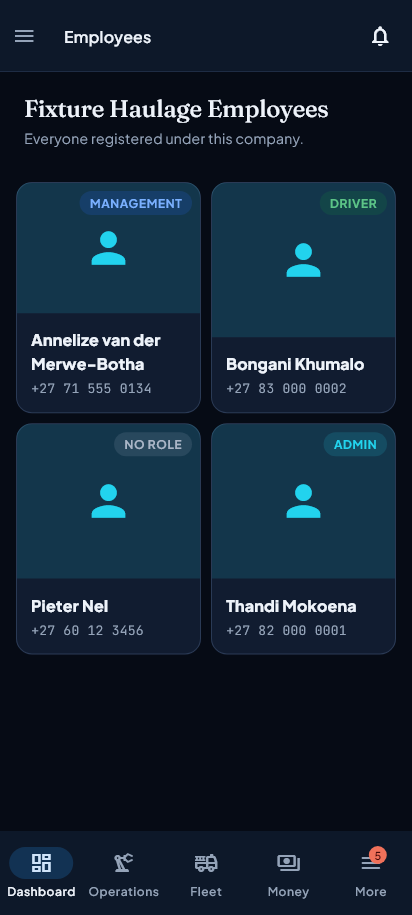
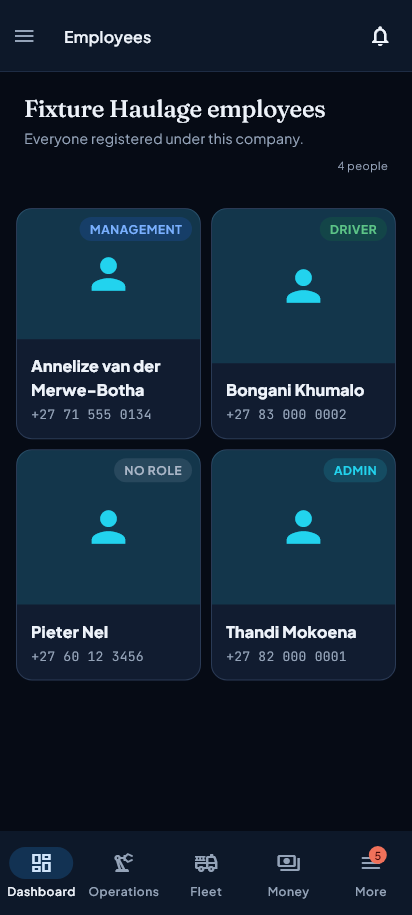
fix(employees): the employee grid's head is sentence case and counts the people on it
Reviewer finding #40, verified in the render. The title was
`'$companyName Employees'` — the shipping app's `AppBar` title carried across
into an `MlPageHeader` unchanged — so `screen-employee-grid-desktop-dark`
read "Fixture Haulage Employees" while the register next door reads "Employee
register" and the screen one route over reads "Company employees". The company
is a proper noun; "employees" is not.

It also carried no meta line, which `docs/design-reference.md` §5.4 asks of
every header, and which the sibling "Company employees" head does carry. The
roster was already being fetched — `getByCompanyId` selects a company's WHOLE
roster whatever page is asked for, and caches it — so `employeesByCompanyProvider`,
declared in this file since it was written and read by nothing, now feeds the
count at no extra round trip. It reads `4 people` beside the title on the
desktop and under the description on a phone, which is exactly where the
sibling screen puts `3 users`; both looked at.

`maybeWhen(orElse: () => null)`, so an unresolved roster shows NO meta rather
than "0 people" — §5.7 is that an empty state must say it is empty, and a
roster that has not arrived is not empty, it is unread.

This count is only honest because of `bf40afc`: before it the repository
cached the twenty-row PAGE under the company's key, so this line would have
told a two-hundred-person company it had twenty.

Pinned by `test/features/employee/employee_grid_head_test.dart`. Three
[…]

Changed region(s): [[0.0291, 0.1836, 0.9612, 0.5202], [0.0291, 0.5202, 0.9612, 0.765], [0.4951, 0.0918, 0.7864, 0.153]]

diff --git a/test/features/employee/employee_grid_head_test.dart b/test/features/employee/employee_grid_head_test.dart
@@ -1,0 +1,120 @@
+// The employee grid's page head, in the product's own vocabulary.
+//
+// Phase 3 mine-portal pass, 2026-08-23 (reviewer finding #40). The title was
+// `'$companyName Employees'` — the shipping app's `AppBar` title carried
+// across into an `MlPageHeader` unchanged — so it read "Fixture Haulage
+// Employees" while every other header in the product is sentence case, the
+// register next door reads "Employee register" and the screen one route over
+// reads "Company employees".
+//
+// And it carried NO meta line, which `docs/design-reference.md` §5.4 asks of
+// every header. The roster was already being fetched — `getByCompanyId`
+// selects a company's whole roster whatever page is asked for — so the count
+// costs nothing but was simply never shown.
+//
+// The count is only honest because of the commit before this one: the
+// repository used to cache the twenty-row PAGE under the company's key, so a
+// header counting that roster would have said "20 people" about a company of
+// two hundred. See `employee_roster_paging_test.dart`.
+
+import 'package:flutter/material.dart';
+import 'package:flutter_riverpod/flutter_riverpod.dart';
+import 'package:flutter_test/flutter_test.dart';
+import 'package:shared_preferences/shared_preferences.dart';
+import 'package:supabase_flutter/supabase_flutter.dart';
+
+import 'package:flutter_application_1/core/mcp/models/employee_model.dart';
+import 'package:flutter_application_1/core/mcp/repository_providers.dart';
+import 'package:flutter_application_1/core/theme/app_theme.dart';
+import 'package:flutter_application_1/features/employee/screens/employee_grid_screen.dart';
+
+import '../../fixtures/portal_tail_fixtures.dart';
+import '../../test_helpers/real_fonts.dart';
+import '../../test_helpers/frozen_clock.dart';
+
+void main() {
+  setUpAll(() async {
+    freezeCaptureClock();
+    await loadRealFonts();
+    SharedPreferences.setMockInitialValues({});
+    await Supabase.initialize(
+      url: 'http://localhost:54321',
+      anonKey: 'employee-grid-head-test',
+    );
+  });
+
+  Future<void> pump(WidgetTester tester, List<EmployeeMCP> roster) async {
+    tester.view.physicalSize = const Size(1600, 1200);
+    tester.view.devicePixelRatio = 1.0;
+    addTearDown(tester.view.reset);
+    await tester.pumpWidget(
+      ProviderScope(
+        overrides: [
+          employeeRepositoryProvider.overrideWithValue(
+            FixtureEmployeeRepository(roster),
+          ),
+        ],
+        child: MaterialApp(
+          theme: AppTheme.darkTheme,
+          home: const Scaffold(
+            body: EmployeeGridScreen(
+              companyId: 'co-transporter',
+              companyName: 'Fixture Haulage',
+            ),
+          ),
+        ),
+      ),
+    );
+    await tester.pump();
+    await tester.pump(const Duration(milliseconds: 600));
+  }
+
+  testWidgets('the title is sentence case, not the AppBar title', (
+    tester,
+  ) async {
+    await pump(tester, kCompanyRoster);
+
+    expect(find.text('Fixture Haulage employees'), findsOneWidget);
+    expect(
+      find.text('Fixture Haulage Employees'),
+      findsNothing,
+      reason:
+          'the company is a proper noun; "employees" is not. Every other '
+          'header in the product is sentence case',
+    );
+  });
+
+  testWidgets('the head counts the people it draws', (tester) async {
+    await pump(tester, kCompanyRoster);
+
+    final drawn = kCompanyRoster
+        .where((e) => e.companyId == null || e.companyId == 'co-transporter')
+        .length;
+    expect(
+      drawn,
+      greaterThan(1),
+      reason: 'a one-person fixture cannot tell a count from a singular',
+    );
+    expect(
+      find.text('$drawn people'),
+      findsOneWidget,
+      reason:
+          '§5.4 — every header carries a meta line, and it counts the thing '
+          'the page actually shows',
+    );
+  });
+
+  testWidgets('one person is "1 person", not "1 people"', (tester) async {
+    await pump(tester, [kCompanyRoster.first]);
+    expect(find.text('1 person'), findsOneWidget);
+    expect(find.text('1 people'), findsNothing);
+  });
+
+  // The GREEN case: the description is the screen's own sentence and this pass
+  // did not touch it. If a later edit rewrites the header wholesale, this says
+  // so rather than letting the sentence quietly disappear.
+  testWidgets('the description still says who is on the page', (tester) async {
+    await pump(tester, kCompanyRoster);
+    expect(find.text('Everyone registered under this company.'), findsOneWidget);
+  });
+}

diff --git a/lib/features/employee/screens/employee_grid_screen.dart b/lib/features/employee/screens/employee_grid_screen.dart
@@ -9,7 +9,13 @@ import 'package:flutter_application_1/features/auth/models/user_type.dart';
 import 'package:flutter_application_1/core/design/components/ml_components.dart';
 import 'package:cached_network_image/cached_network_image.dart';
 
-/// Provider for the list of employees by company ID
+/// Every person on a company's roster — the whole list, not a page of it.
+///
+/// Declared here since the screen was written and read by nothing until
+/// 2026-08-23, when the page header gained the meta line §5.4 asks every
+/// header for. It costs no extra round trip: `getByCompanyId` selects the
+/// company's whole roster whatever page is asked for, and caches it, so
+/// the grid's own first page has already paid for this.
 final employeesByCompanyProvider =
     FutureProvider.family<List<EmployeeMCP>, String>((ref, companyId) async {
       final repository = ref.watch(employeeRepositoryProvider);
@@ -29,6 +35,12 @@ class EmployeeGridScreen extends ConsumerWidget {
 
   @override
   Widget build(BuildContext context, WidgetRef ref) {
+    // The roster behind the meta line. `null` until it resolves — a header
+    // with no meta yet is right; a header reading "0 people" for a frame is
+    // not (§5.7: an empty state must SAY it is empty, and this one is not
+    // empty, it is unread).
+    final roster = ref.watch(employeesByCompanyProvider(companyId));
+
     // NO `Scaffold(appBar:)` — `/employees/:companyId` is a leaf of the portal
     // `ShellRoute`, whose top bar already names the company.
     return Column(
@@ -37,8 +49,18 @@ class EmployeeGridScreen extends ConsumerWidget {
         Padding(
           padding: const EdgeInsets.fromLTRB(24, 20, 24, 0),
           child: MlPageHeader(
-            title: '$companyName Employees',
+            // Sentence case, like every other header in the product: the
+            // company is a proper noun and "employees" is not. It read
+            // "Fixture Haulage Employees", which is the shipping app's
+            // `AppBar` title carried across unchanged.
+            title: '$companyName employees',
             description: 'Everyone registered under this company.',
+            // The register next door counts the same predicate in the same
+            // words (`1478`: person / people).
+            meta: roster.maybeWhen(
+              data: (people) => mlCount(people.length, 'person', 'people'),
+              orElse: () => null,
+            ),
           ),
         ),
         Expanded(child: _buildEmployeeGrid(context, ref)),
